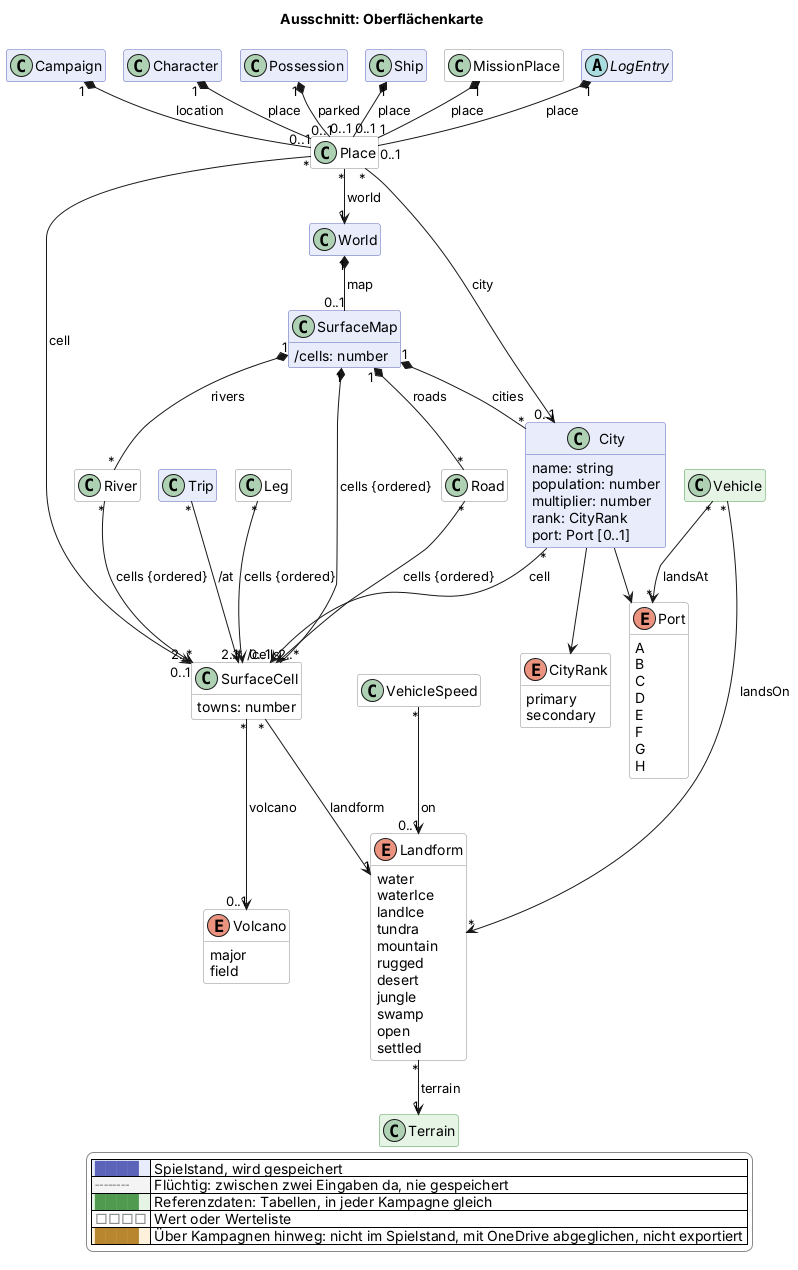
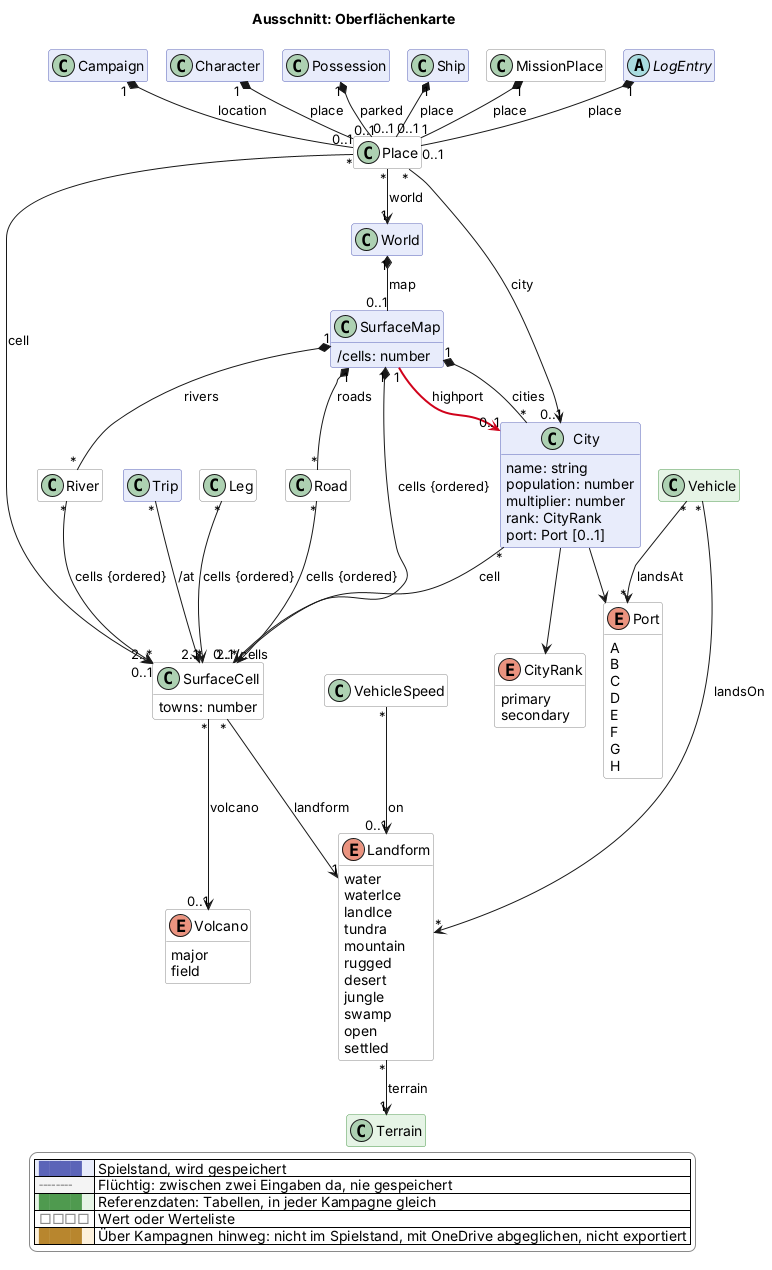
Highport (Änderung 2026-11-28b, wartet auf Freigabe)
Jede Welt mit Oberflächenkarte und Raumhafen A oder B bekommt genau eine
Orbitalstadt als Highport (SurfaceMap.highport), die den Raumhafen der Welt
trägt: andocken, Markt, Aufträge, Einkaufen, Tanken, Werft. Anlass: Echo
(B537100-8) hat Raumhafen B, aber keine Stadt.

Claude-Session: https://claude.ai/code/session_016ZF27vno82qe8L6jj1UXqD

diff --git a/docs/modell/oberflaeche.md b/docs/modell/oberflaeche.md
@@ -128,3 +128,52 @@ Feld und Stadt gehören zur Oberflächenkarte derselben Welt; eine Orbitalstadt 
   NSC dort leben; auf einer Welt alle NSC dieser Welt, ob auf der ganzen Welt oder genauer.
 - **Bestehende Kampagnen:** Ein bisheriger Aufenthaltsort bzw. Ort eines NSC wird ein Ort mit
   dieser Welt, ohne Feld und Stadt.
+
+## Highport
+
+*Änderung 2026-11-28b, wartet auf Freigabe.* Anlass: Echo (B537100-8) hat Raumhafen B, aber bei
+Bevölkerung 1 keine Stadt; der Hafen hing an keiner Stadt, und Werft, Markt und Landeplatz waren
+nicht zu erreichen. Der Owner will den Highport als eigenen Ort, an dem man andockt und handelt,
+statt einer Ausnahme für diesen Fall.
+
+- **Wer einen hat.** Jede Welt mit Oberflächenkarte und **Raumhafen A oder B** (Starport des UWP;
+  Nebenwelten haben Spaceports und keinen Highport) hat **genau einen Highport**: eine Orbitalstadt
+  (`City` ohne `cell`), auf die `SurfaceMap.highport` zeigt. Das *World Builder's Handbook* (S. 74,
+  siehe [Konzept Oberflächenkarte](../konzept-oberflaechenkarte.md), 10d) verlangt bei A und B
+  mindestens eine Orbitalstadt; eine davon ist der Highport. Welten ohne Oberflächenkarte
+  (Asteroidengürtel) haben keinen; dort gilt weiter der Raumhafen des UWP für die ganze Welt.
+- **Sein Hafen** ist der Starport der Welt (`port` A bzw. B). Die erste Hauptstadt behält ihren
+  Hafen wie bisher (der **Downport**); an A und B gibt es also oben und unten einen Hafen derselben
+  Klasse. Hat die Welt keine Stadt am Boden, ist der Highport ihr einziger Hafen.
+- **Name**: „<Weltname> Highport“ (ohne Weltname „Highport“), umbenennbar wie jede Stadt.
+- **Beim Erzeugen der Karte**, nach den Orbitalstädten (Konzept 10d):
+  1. Gibt es schon eine Orbitalstadt, wird die größte der Highport; ihr Hafen wird der Starport.
+  2. Sonst wird wie bisher die kleinste Nebenstadt in den Orbit verlegt und Highport.
+  3. Gibt es keine Stadt, die sich verlegen lässt, und gar keine Stadt (dünn besiedelt, wie Echo),
+     entsteht der Highport mit der **ganzen Bevölkerung** der Welt (`population` = Bevölkerung des
+     UWP, `multiplier` = `populationMultiplier`, Rang Hauptstadt). ⚑
+  4. Gibt es Städte, aber keine verlegbare (nur Hauptstädte), entsteht der Highport als **Station
+     ohne eigene Einwohner** (`population` 0, `multiplier` 1, gelesen als Personal der Station). ⚑
+     Bei Bevölkerung 0 der Welt ebenso.
+- **Bestehende Karten** bekommen ihren Highport beim Laden, ohne neu zu würfeln: Ist eine
+  Orbitalstadt da, wird die größte der Highport (Schritt 1). Sonst kommt eine neue Orbitalstadt
+  **ans Ende** der Städteliste (Schritt 3 bzw. 4), damit die Nummern der Städte und alle Orte,
+  die auf sie zeigen, gültig bleiben. Die Einwohner der übrigen Städte ändern sich nicht.
+- **Was dort geht.** Der Highport ist eine Stadt mit Hafen; alles, was an einer Stadt mit Hafen
+  geht, geht dort:
+  - *Landeplatz* ([Reise](reise.md), *Landeplatz*): Er steht in der Auswahl wie jede Stadt mit
+    Hafen, mit der Handlung **„Andocken“** statt „Landen“; die Gruppe ist danach am Highport
+    (`Campaign.location` mit dieser Stadt), mit eigenem Schiff auch das Schiff (`Ship.place`).
+    Ein angedocktes Schiff ist **nicht** `inOrbit` (das bleibt für Schiffe ohne Hafen in der
+    Umlaufbahn) und zahlt Liegegebühren wie in jedem Hafen.
+  - *Tanken*, *Markt* und *Aufträge* ([Handel](handel.md)), *Einkaufen* im Shop (Tech-Level der
+    Welt) und die *Werft* ([Schiffe](schiffe.md): Umrüsten, Reparieren, Kauf nach SR 29 an A,
+    Small Craft auch an B) wie an jeder Stadt mit diesem Hafen.
+  - *Begegnungen* wie in einer Stadt. ⚑
+  - *Nicht*: Fahrten über die Oberfläche beginnen oder enden dort nicht; der Highport hat kein Feld.
+- **Zwischen Highport und Oberfläche** pendelt ein Shuttle (offene Frage: Preis und Dauer). Mit
+  eigenem Schiff legt man ab und wählt einen neuen Landeplatz, wie nach einer Reise im System.
+- **Auf dem Globus und der Raumkarte** erscheint der Highport wie die übrigen Orbitalstädte als
+  Licht auf einer Umlaufbahn und in der Liste *Orte*, als Highport gekennzeichnet. Andocken aus
+  dem Systemflug ist offen (siehe [Konzept Raumkampf](../konzept-raumkampf.md), *Anflug und
+  Andocken*).

diff --git a/docs/domain-model.md b/docs/domain-model.md
@@ -318,6 +318,7 @@ stehen nicht hier, sondern im [GUI-Handbuch](gui-handbuch.md) unter „Begriffe 
 | Städtenamen | (Referenzdaten) | Die große Liste, aus der neue Städte ihren Namen bekommen |
 | Hauptstadt, Nebenstadt | `CityRank` | Die Städte mit den höchsten Bevölkerungsziffern (höchstens 10) bzw. eine Ziffer darunter |
 | Orbitalstadt | `City` ohne `cell` | Eine Stadt dauerhaft im Orbit |
+| Highport | `SurfaceMap.highport` | (2026-11-28b) Die Orbitalstadt einer Welt mit Raumhafen A oder B, die den Raumhafen der Welt trägt; dort dockt man an. Gegenstück: der **Downport**, der Hafen der ersten Hauptstadt am Boden |
 | Hafen einer Stadt | `City.port`, `Port` | Raumhafen A–E oder Landeplatz F–H der Stadt; Y (keiner) heißt: kein Wert |
 | Fahrzeug | `Vehicle`, `Item.vehicle` | Womit man sich über die Oberflächenkarte bewegt, mit seiner Tabelle der Geschwindigkeiten; zu einem Gegenstand der Art vehicle, außer *zu Fuß* |
 | Zu Fuß | `Vehicle` ohne Gegenstand | Das Fahrzeug, das die Gruppe immer hat: langsam, aber fast überall |

diff --git a/docs/modell/reise.md b/docs/modell/reise.md
@@ -127,7 +127,9 @@ mit dem **eigenen Schiff** (2026-11-16d, siehe *Eigenes Schiff*), je nachdem, wa
   - *Was*: Infrage kommt jede Stadt der Welt mit Hafen (A–E Starport, F–H Spaceport, Owner:
     alle Häfen) und, wenn die Gruppe mit dem eigenen Schiff kam, **ein anderer Ort**: ein beliebiges
     Feld des Globus. ⚑ Hat eine Welt keine Stadt mit Hafen (selten, etwa dünn besiedelt), geht ein
-    anderer Ort auch ohne eigenes Schiff.
+    anderer Ort auch ohne eigenes Schiff. Der **Highport** (2026-11-28b, wartet auf Freigabe;
+    [Oberfläche](oberflaeche.md#highport)) steht als Stadt mit Hafen in der Auswahl, mit
+    „Andocken“ statt „Landen“.
   - *Folge*: Die Gruppe steht in dieser Stadt bzw. auf diesem Feld (`Campaign.location`). Kam sie mit
     dem eigenen Schiff (Reise mit eigenem Schiff, Reise im System mit eigenem Schiff, Landung aus
     dem Systemflug), steht auch das Schiff dort (`Ship.place`).

diff --git a/docs/modell/verlauf.md b/docs/modell/verlauf.md
@@ -769,3 +769,10 @@ Regeln der Bereiche. Die Bedienung, die hier noch vorkommt, ist die von damals.
 > Gruppe. Der Ship-Vorteil der Abmusterung bleibt überall. Regeln in [`schiffe.md`](schiffe.md) unter
 > *Erwerb*, *Wo gekauft wird*. Zugleich freigegeben: die überarbeitete Werft als Oberfläche
 > ([`../konzept-werft.md`](../konzept-werft.md), GUI-Handbuch *Werft*).
+
+> Am 28. November 2026 vorgeschlagen, **wartet auf Freigabe** (Kennzeichen **2026-11-28b**):
+> **Highport.** Jede Welt mit Oberflächenkarte und Raumhafen A oder B hat genau eine Orbitalstadt als
+> Highport (`SurfaceMap.highport`), die den Raumhafen der Welt trägt; dort dockt man an, handelt,
+> kauft ein, tankt und nutzt die Werft. Anlass: Echo (B537100-8) ohne Städte. Regeln in
+> [`oberflaeche.md`](oberflaeche.md#highport). Der Ausschnitt dazu liegt unter
+> [`changes/2026-11-28b-highport.png`](../changes/2026-11-28b-highport.png).
